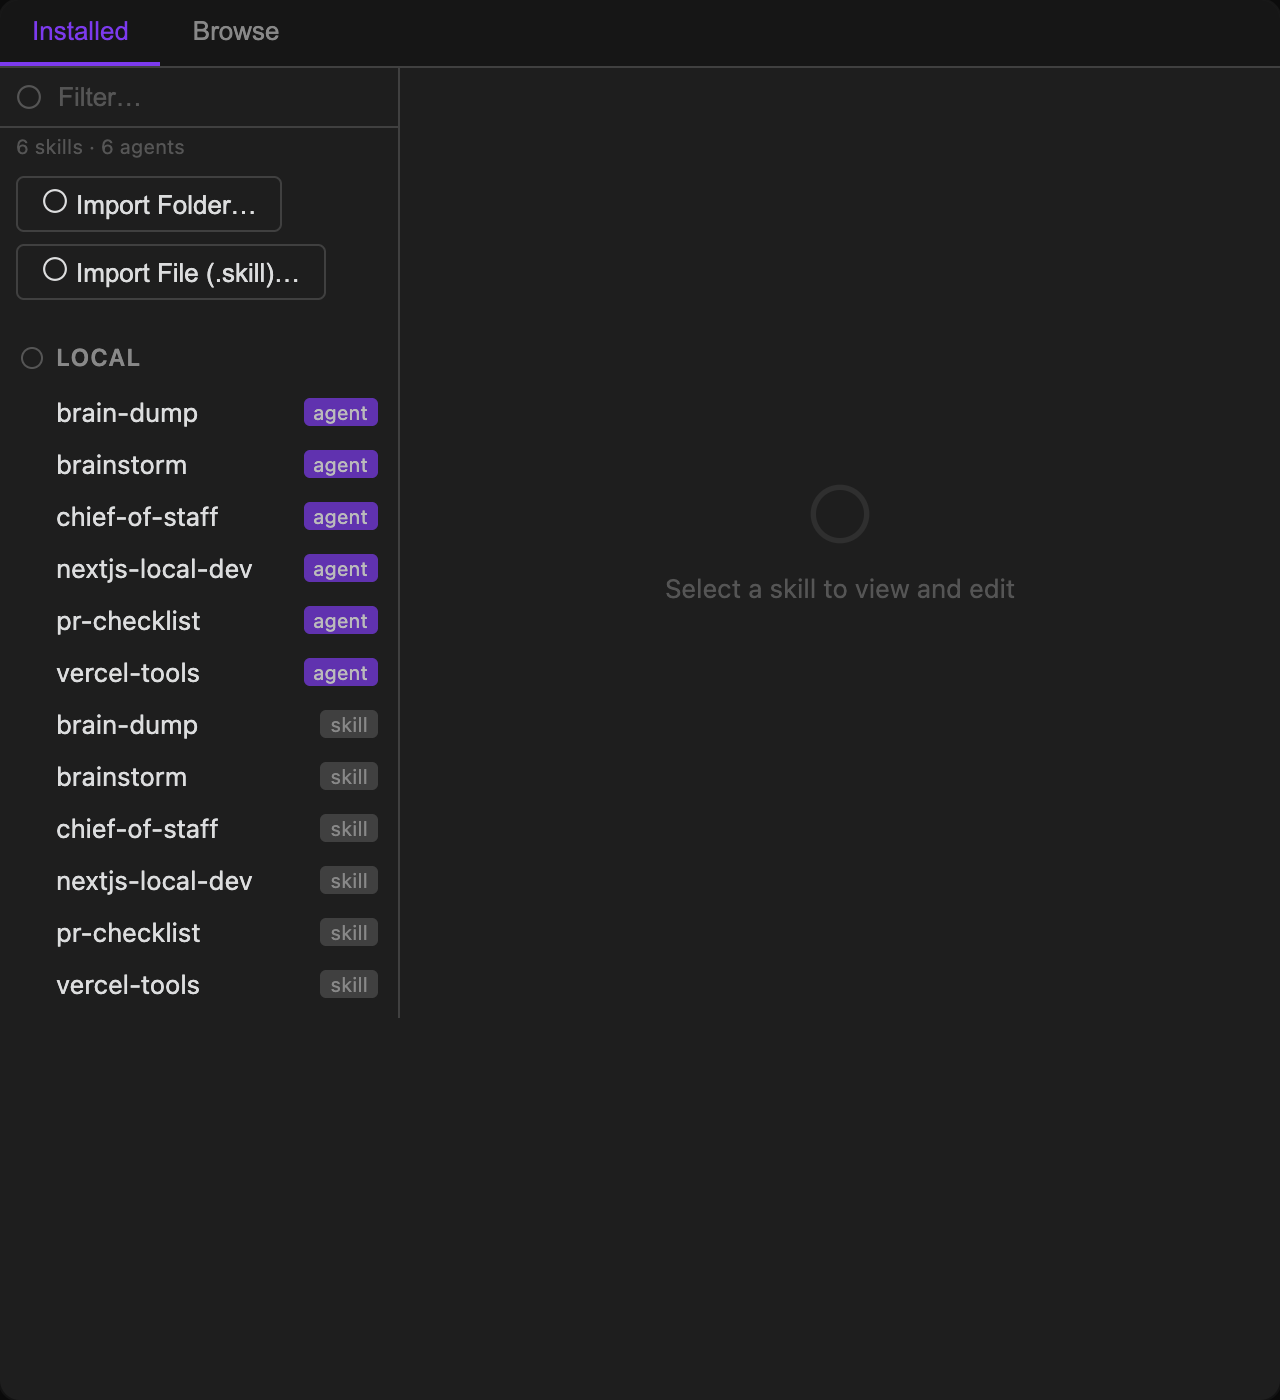
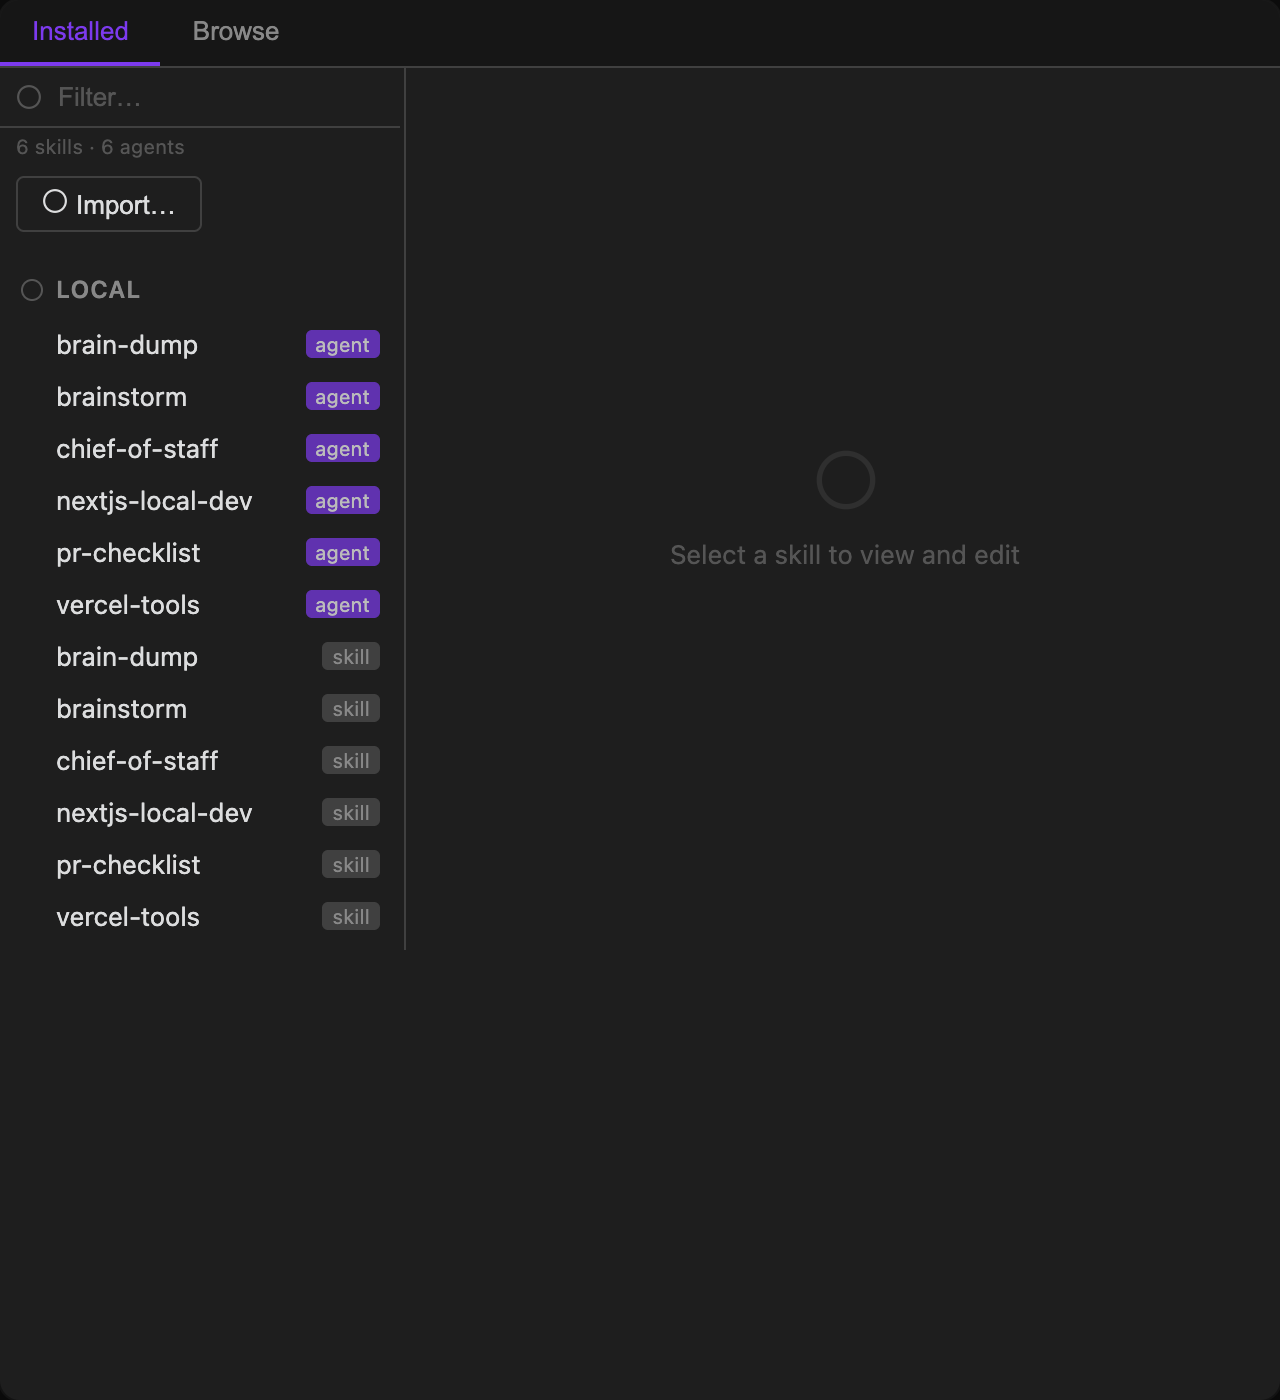
fix: combine Import Folder/File buttons into a single dropdown menu
Two side-by-side "Import Folder…" / "Import File (.skill)…" buttons were
crowding the narrow list panel header. Merged into one "Import…" button that
opens a menu with both options, using the same Menu API already used for the
git diff bar's split button elsewhere in this view.

diff --git a/src/SkillsManagerView.ts b/src/SkillsManagerView.ts
@@ -1,4 +1,4 @@
-import { ItemView, WorkspaceLeaf, setIcon, setTooltip, Notice, Modal, App, requestUrl } from 'obsidian';
+import { ItemView, WorkspaceLeaf, setIcon, setTooltip, Notice, Modal, Menu, App, requestUrl } from 'obsidian';
 import type ClaudeThreadsPlugin from './main';
 
 export const SKILLS_VIEW_TYPE = 'claude-threads:skills';
@@ -471,17 +471,26 @@ export class SkillsManagerView extends ItemView {
 
     // ── Import Skill action row (always shown, stable position) ─────────────
     const importRow = this.listEl.createEl('div', { cls: 'ct-skills-update-row' });
-    const importFolderBtn = importRow.createEl('button', { cls: 'ct-skills-btn', text: 'Import Folder…' });
-    const importFolderIcon = importFolderBtn.createEl('span', { cls: 'ct-skills-btn-icon' });
-    setIcon(importFolderIcon, 'folder-plus');
-    importFolderBtn.prepend(importFolderIcon);
-    importFolderBtn.addEventListener('click', () => this.importFolderInputEl.click());
-
-    const importFileBtn = importRow.createEl('button', { cls: 'ct-skills-btn', text: 'Import File (.skill)…' });
-    const importFileIcon = importFileBtn.createEl('span', { cls: 'ct-skills-btn-icon' });
-    setIcon(importFileIcon, 'file-up');
-    importFileBtn.prepend(importFileIcon);
-    importFileBtn.addEventListener('click', () => this.importFileInputEl.click());
+    const importBtn = importRow.createEl('button', { cls: 'ct-skills-btn', text: 'Import…' });
+    const importIcon = importBtn.createEl('span', { cls: 'ct-skills-btn-icon' });
+    setIcon(importIcon, 'plus');
+    importBtn.prepend(importIcon);
+    importBtn.addEventListener('click', (e) => {
+      const menu = new Menu();
+      menu.addItem(item =>
+        item
+          .setTitle('Folder…')
+          .setIcon('folder-plus')
+          .onClick(() => this.importFolderInputEl.click())
+      );
+      menu.addItem(item =>
+        item
+          .setTitle('File (.skill)…')
+          .setIcon('file-up')
+          .onClick(() => this.importFileInputEl.click())
+      );
+      menu.showAtMouseEvent(e);
+    });
 
     // ── Check for Updates action row (only when GitHub sources are configured) ─
     if (githubSources.length > 0) {

diff --git a/README.md b/README.md
@@ -158,7 +158,7 @@ Open the **Skills Manager** panel from the ribbon (puzzle icon) or command palet
   <img src="docs/screenshot-skills-manager.png" width="800" alt="Skills Manager: source tree on the left with skill/agent detail and editor on the right" />
 </p>
 
-**Installed tab** — shows everything installed as a collapsible source tree. A **Check for updates** button in the toolbar re-fetches staleness for all GitHub plugin sources in parallel; it shows a spinner while running, and once done, an indicator dot appears on the button if any plugin has updates (hover the button for the full status and last-checked time). GitHub plugin sources appear as top-level nodes with a badge (`•N`) when updates are available; clicking one expands it to reveal its skills and opens a detail panel with **Update** (git pull, highlighted when updates are available), **Reload** (re-scan from disk), **Reinstall** (delete and re-clone for broken installs), and **Remove Source**. A **Local** node at the bottom groups your standalone skills and agents — click any item to view and edit it. For skills: **Save**, **Reload**, **Reveal in Finder**, **Uninstall**. For agents: **Save**, **Reload**, **Reveal in Finder**, **Delete**. **Import Folder…** and **Import File (.skill)…** buttons let you install a skill directly from a local folder or a packaged `.skill`/`.zip` archive, without going through GitHub.
+**Installed tab** — shows everything installed as a collapsible source tree. A **Check for updates** button in the toolbar re-fetches staleness for all GitHub plugin sources in parallel; it shows a spinner while running, and once done, an indicator dot appears on the button if any plugin has updates (hover the button for the full status and last-checked time). GitHub plugin sources appear as top-level nodes with a badge (`•N`) when updates are available; clicking one expands it to reveal its skills and opens a detail panel with **Update** (git pull, highlighted when updates are available), **Reload** (re-scan from disk), **Reinstall** (delete and re-clone for broken installs), and **Remove Source**. A **Local** node at the bottom groups your standalone skills and agents — click any item to view and edit it. For skills: **Save**, **Reload**, **Reveal in Finder**, **Uninstall**. For agents: **Save**, **Reload**, **Reveal in Finder**, **Delete**. The **Import…** button opens a menu with **Folder…** and **File (.skill)…**, letting you install a skill directly from a local folder or a packaged `.skill`/`.zip` archive, without going through GitHub.
 
 **Browse tab** — search the [skills.sh](https://skills.sh) registry. Results show the skill name, GitHub source, and install count. Click a result to see details and an **Install** button that clones the skill from GitHub into `~/.claude/skills/`.
 